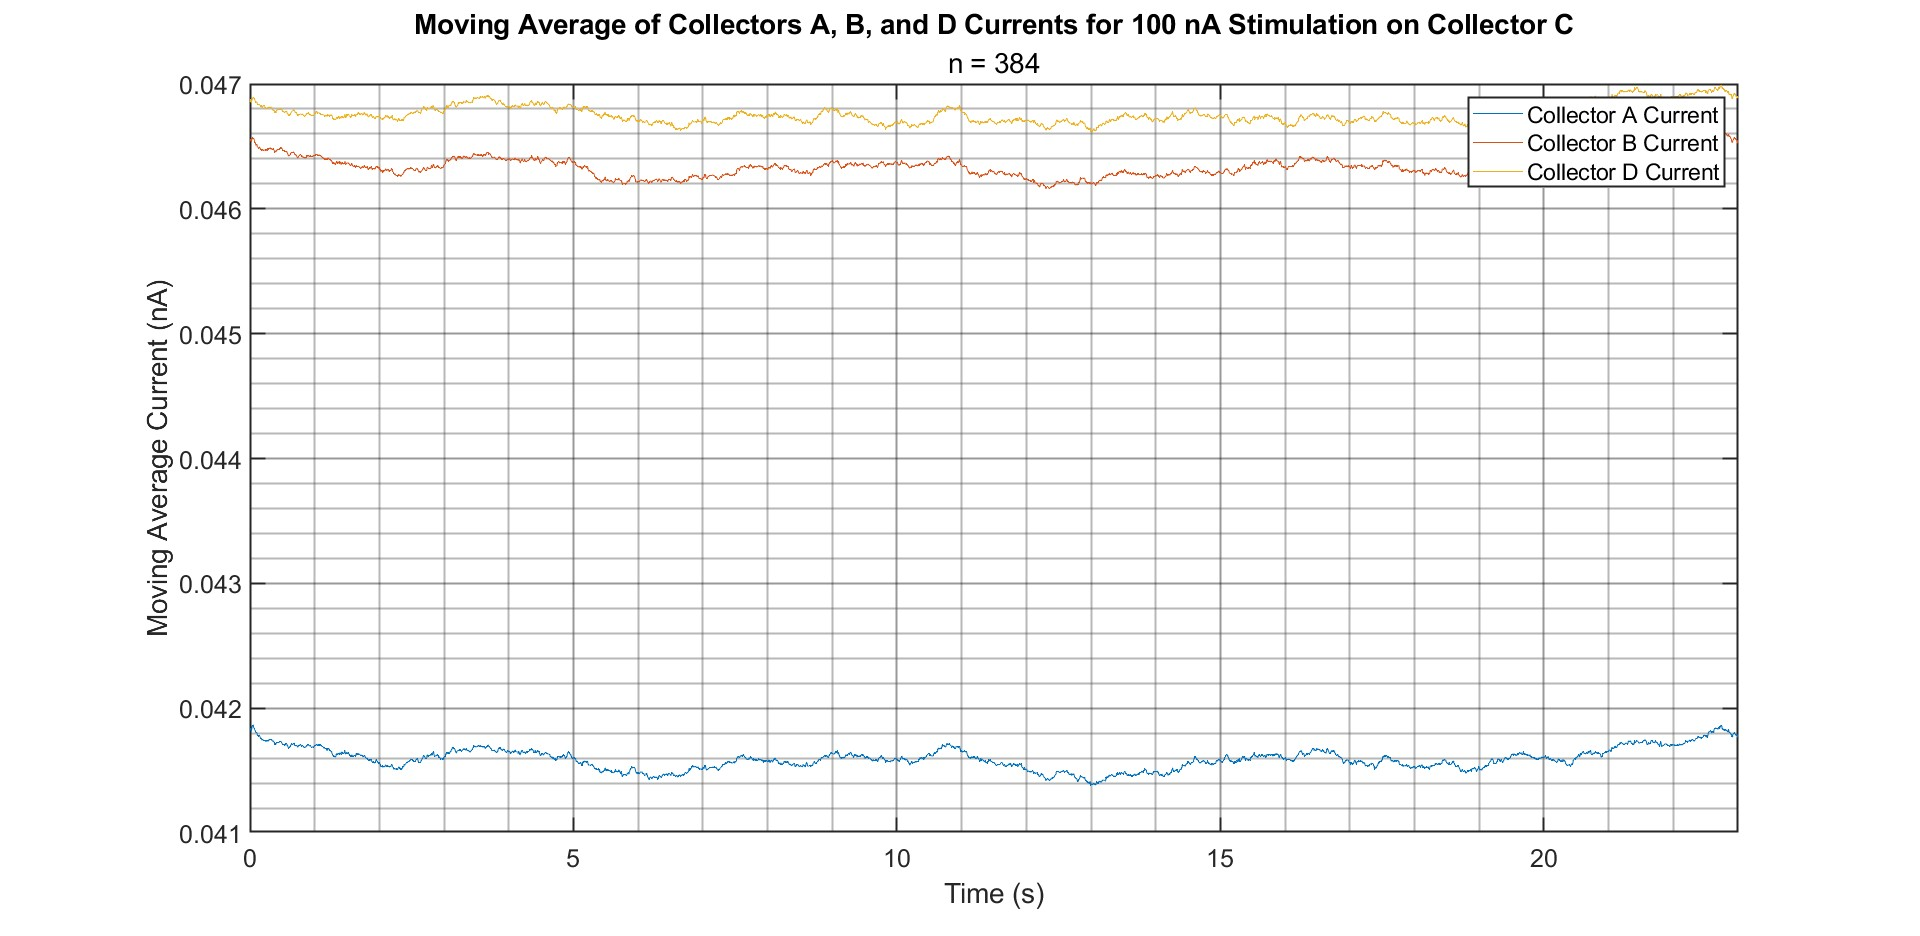
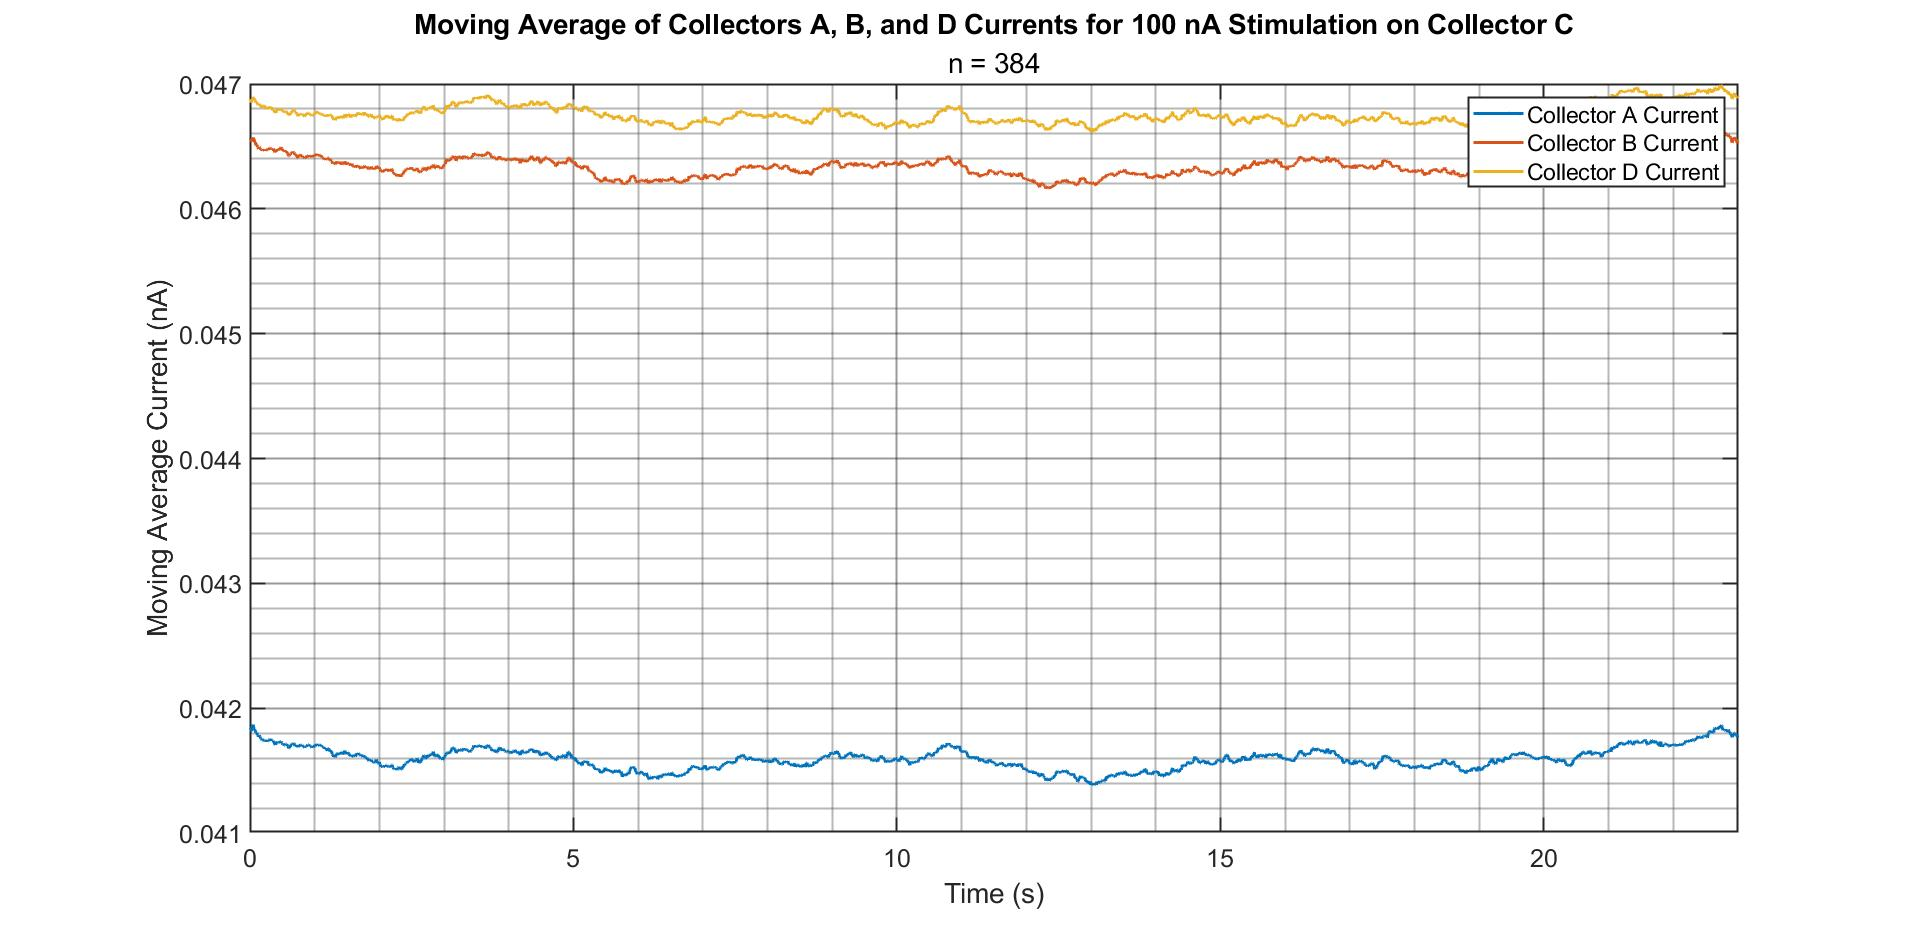
increased thickness of moving average plots

diff --git a/grids_noise_C3C_upsweep_100nA.m b/grids_noise_C3C_upsweep_100nA.m
@@ -70,11 +70,11 @@ ylim([min(currentC3_nA) max(currentC3_nA)]);
 hold off;
 % Plot moving average of current levels on other channels
 figure(2);
-plot(taxis, movmean(currentC1_nA, (1/10)*size(currentC3_nA, 1)));
+plot(taxis, movmean(currentC1_nA, (1/10)*size(currentC3_nA, 1)), "LineWidth", 2);
 hold on;
-plot(taxis, movmean(currentC2_nA, (1/10)*size(currentC3_nA, 1)));
+plot(taxis, movmean(currentC2_nA, (1/10)*size(currentC3_nA, 1)), "LineWidth", 2);
 hold on;
-plot(taxis, movmean(currentC4_nA, (1/10)*size(currentC3_nA, 1)));
+plot(taxis, movmean(currentC4_nA, (1/10)*size(currentC3_nA, 1)), "LineWidth", 2);
 ax = gca;
 ax.FontSize = 15;
 grid on;

diff --git a/grids_noise_C3C_upsweep_10nA.m b/grids_noise_C3C_upsweep_10nA.m
@@ -70,11 +70,11 @@ ylim([min(currentC3_nA) max(currentC3_nA)]);
 hold off;
 % Plot moving average of current levels on other channels
 figure(2);
-plot(taxis, movmean(currentC1_nA, (1/10)*size(currentC3_nA, 1)));
+plot(taxis, movmean(currentC1_nA, (1/10)*size(currentC3_nA, 1)), "LineWidth", 2);
 hold on;
-plot(taxis, movmean(currentC2_nA, (1/10)*size(currentC3_nA, 1)));
+plot(taxis, movmean(currentC2_nA, (1/10)*size(currentC3_nA, 1)), "LineWidth", 2);
 hold on;
-plot(taxis, movmean(currentC4_nA, (1/10)*size(currentC3_nA, 1)));
+plot(taxis, movmean(currentC4_nA, (1/10)*size(currentC3_nA, 1)), "LineWidth", 2);
 ax = gca;
 ax.FontSize = 15;
 grid on;

diff --git a/grids_noise_C3C_upsweep_1nA.m b/grids_noise_C3C_upsweep_1nA.m
@@ -70,11 +70,11 @@ ylim([min(currentC3_nA) max(currentC3_nA)]);
 hold off;
 % Plot moving average of current levels on other channels
 figure(2);
-plot(taxis, movmean(currentC1_nA, (1/10)*size(currentC3_nA, 1)));
+plot(taxis, movmean(currentC1_nA, (1/10)*size(currentC3_nA, 1)), "LineWidth", 2);
 hold on;
-plot(taxis, movmean(currentC2_nA, (1/10)*size(currentC3_nA, 1)));
+plot(taxis, movmean(currentC2_nA, (1/10)*size(currentC3_nA, 1)), "LineWidth", 2);
 hold on;
-plot(taxis, movmean(currentC4_nA, (1/10)*size(currentC3_nA, 1)));
+plot(taxis, movmean(currentC4_nA, (1/10)*size(currentC3_nA, 1)), "LineWidth", 2);
 ax = gca;
 ax.FontSize = 15;
 grid on;

diff --git a/grids_noise_C3C_upsweep_20nA.m b/grids_noise_C3C_upsweep_20nA.m
@@ -70,11 +70,11 @@ ylim([min(currentC3_nA) max(currentC3_nA)]);
 hold off;
 % Plot moving average of current levels on other channels
 figure(2);
-plot(taxis, movmean(currentC1_nA, (1/10)*size(currentC3_nA, 1)));
+plot(taxis, movmean(currentC1_nA, (1/10)*size(currentC3_nA, 1)), "LineWidth", 2);
 hold on;
-plot(taxis, movmean(currentC2_nA, (1/10)*size(currentC3_nA, 1)));
+plot(taxis, movmean(currentC2_nA, (1/10)*size(currentC3_nA, 1)), "LineWidth", 2);
 hold on;
-plot(taxis, movmean(currentC4_nA, (1/10)*size(currentC3_nA, 1)));
+plot(taxis, movmean(currentC4_nA, (1/10)*size(currentC3_nA, 1)), "LineWidth", 2);
 ax = gca;
 ax.FontSize = 15;
 grid on;
